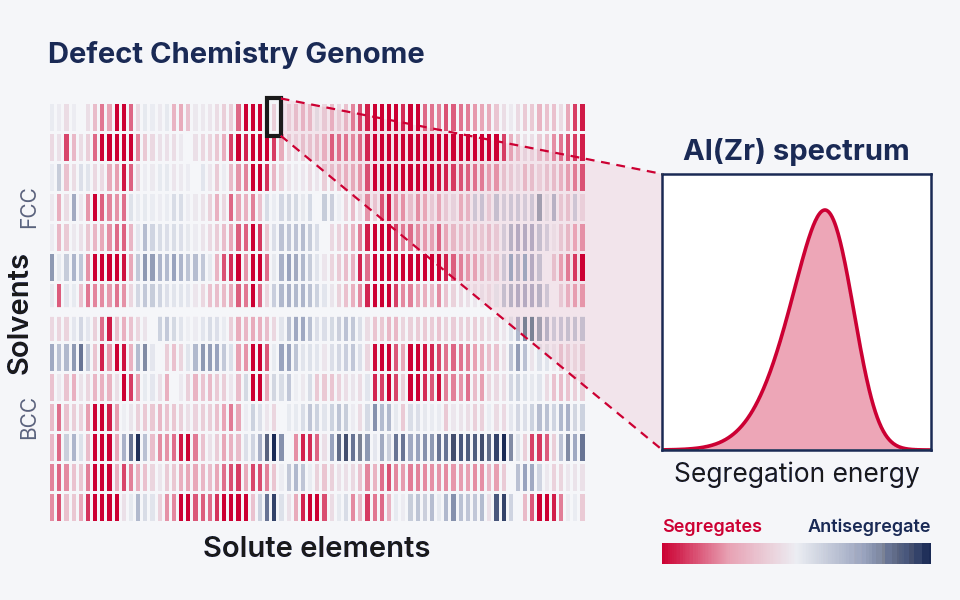
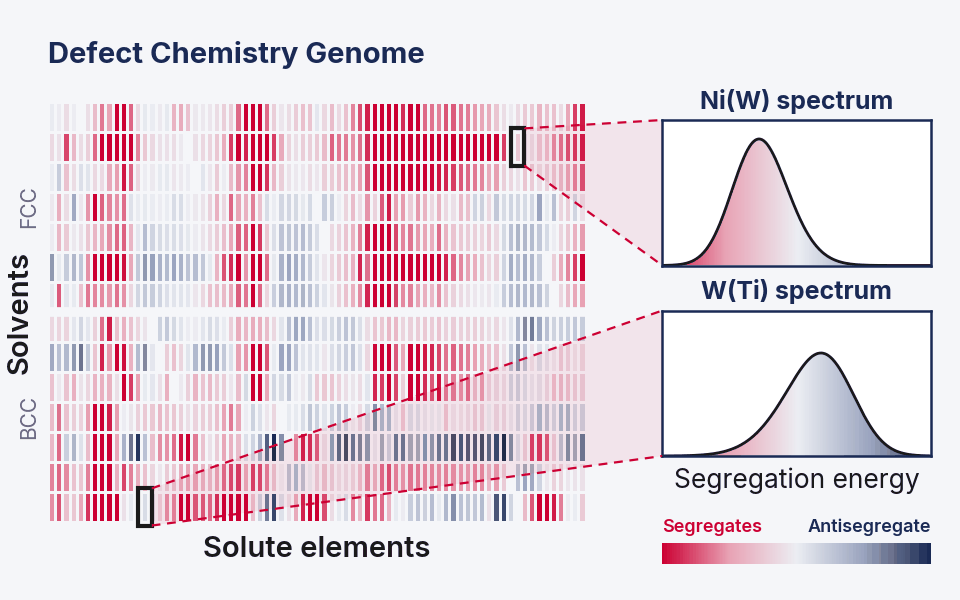
Genome panel: zoom into Ni(W) and W(Ti) spectra

diff --git a/index.html b/index.html
@@ -74,7 +74,7 @@
         </div>
       </div>
       <div class="card">
-        <div class="card-img"><img src="assets/img/theme-defect-genome-data.png" alt="Grid of mean grain boundary segregation energies for 1,036 binary alloys (14 solvents by 74 solutes), with the full segregation energy spectrum of Al(Zr) shown enlarged"></div>
+        <div class="card-img"><img src="assets/img/theme-defect-genome-data.png" alt="Grid of mean grain boundary segregation energies for 1,036 binary alloys (14 solvents by 74 solutes), with the full segregation energy spectra of Ni(W), which mostly segregates, and W(Ti), which mostly antisegregates, shown enlarged"></div>
         <div class="card-body">
           <span class="eyebrow">Research Area 2</span>
           <h3 class="card-title">Materials Defect Genome</h3>
